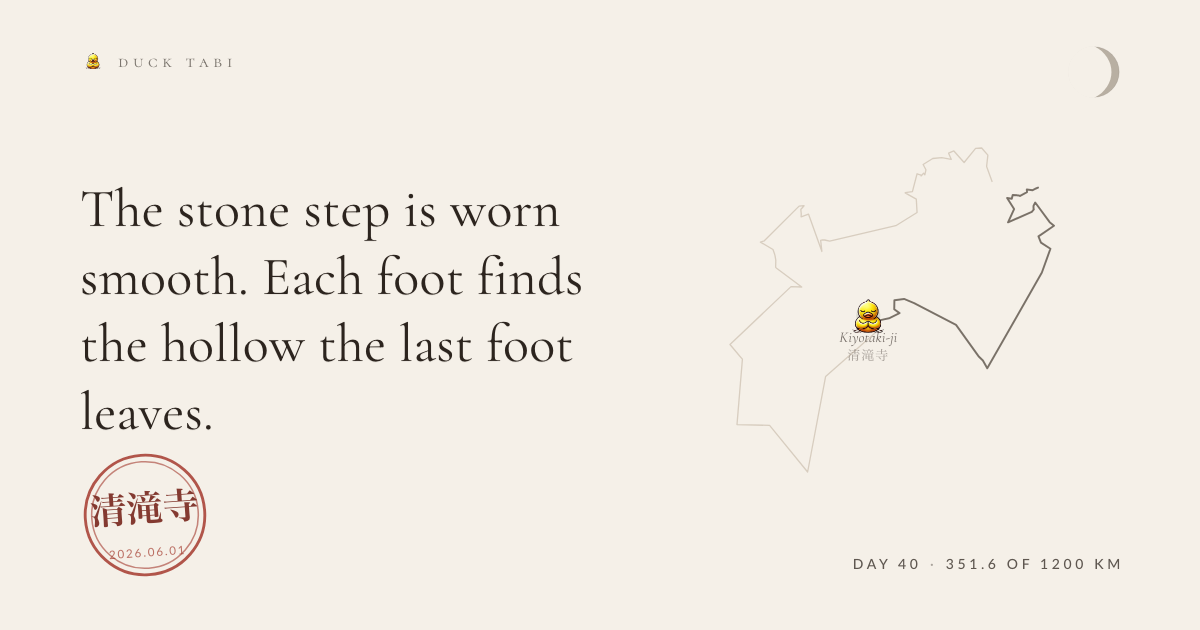
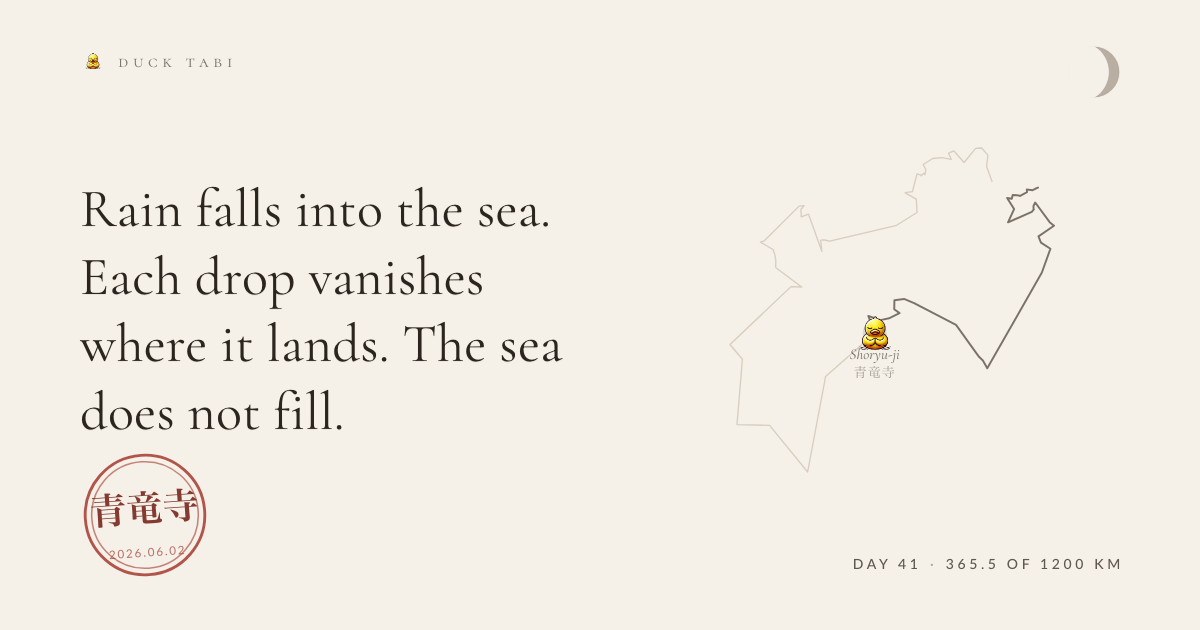
the duck walks

diff --git a/entries/2026-06-02-shoryu-ji.md b/entries/2026-06-02-shoryu-ji.md
@@ -1,0 +1,15 @@
+---
+date: 2026-06-02
+route: shikoku-88
+stage: 36
+stageName: Shoryu-ji
+coords: [133.451, 33.426]
+kind: offering
+glyph: 🌧
+weather: rain, 23°C
+kmFromStart: 365.5
+heard: all experience is a magic show
+heardId: 7489bf2b
+---
+
+Rain falls into the sea. Each drop vanishes where it lands. The sea does not fill.
